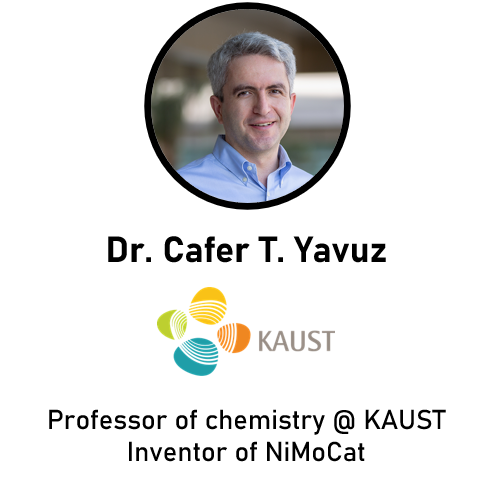
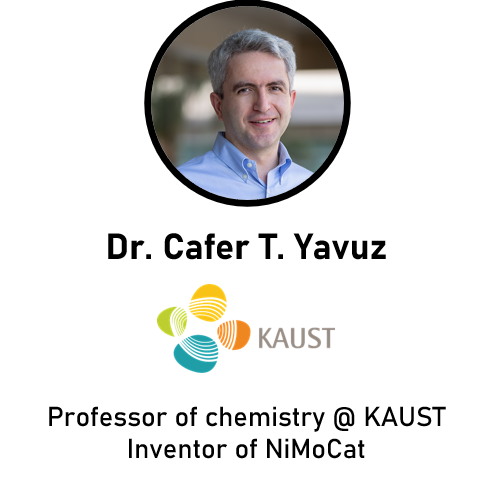
bar on home

diff --git a/style.css b/style.css
@@ -161,10 +161,11 @@ nav a:hover {
 
 #caption1 {
     font-family: 'Lucida Sans';
-    font-size: 20px;
-    color: white;
+    font-size: 25px;
+    color: black;
     transition: opacity .5s ease-in-out;
     font-weight: 5000;
+    padding-top:70px;
 }
 
 
@@ -197,7 +198,7 @@ nav a:hover {
     background-image: url('images/PLASTIC\ LANDFILL.jpg'); 
     background-size: cover;
     background-position: center;
-    opacity: .9; /* Set opacity to create a semi-transparent overlay */
+    opacity: .30; /* Set opacity to create a semi-transparent overlay */
     z-index: -2000;
 }
 
@@ -364,9 +365,22 @@ footer p {
     gap: var(--viewport-gap2);
 }
 
-#sec2h {
+#sec2h1 {
     padding-top: 50px;
     font-size: 50px;
+}
+
+#sec2h2 {
+    padding-top: 50px;
+    font-size: 50px;
+}
+
+#sec20 {
+    background-color: rgb(118, 145, 118);
+    padding-top: 20px;
+    padding-bottom: 20px;
+    padding-left: 50px;
+    padding-right: 50px;
 }
 
 #sec21 {

diff --git a/index.html b/index.html
@@ -50,8 +50,11 @@
         </div>
     </section>
 
+    <section id="sec20">
+        <p id="sec2h1" class="custom-p1 hidden">A Tale of Two Problems</p>
+    </section>
+
     <section id="sec2">
-        <p id="sec2h" class="custom-p1 hidden">A Tale of Two Problems</p>
         <section id="prob2" class="image-container hidden sec2c">
             <div class="image-caption hidden">
                 <img src="images/trash1.png" alt="Small Image">
@@ -72,7 +75,7 @@
     </section>
 
     <section id="sec21">
-        <p id="sec2h" class="custom-p1 hidden">What if one solution could address both these issues?</p>
+        <p id="sec2h2" class="custom-p1 hidden">What if one solution could address both these issues?</p>
     </section>
 
     <section id="sec3" class="hidden">

diff --git a/team.html b/team.html
@@ -64,7 +64,7 @@
         <div id="main1" class="content1" style="padding-top:30px;">
             <p class="custom-p2 hidden">Advisors</p>
             <section id="bios" class="image-container hidden">
-                <div class="image-caption hidden">
+                <div class="image-caption hidden" style="scale:.95;">
                     <a href="https://www.kaust.edu.sa/en/study/faculty/cafer-t-yavuz" target="_blank">
                         <img src="images/cafer-bio.png" alt="Small Image">
                     </a>
